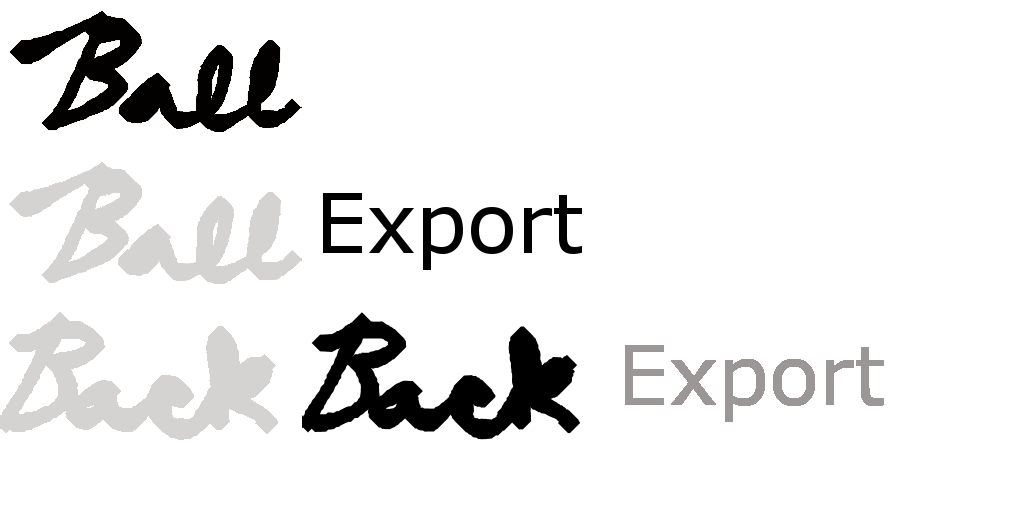
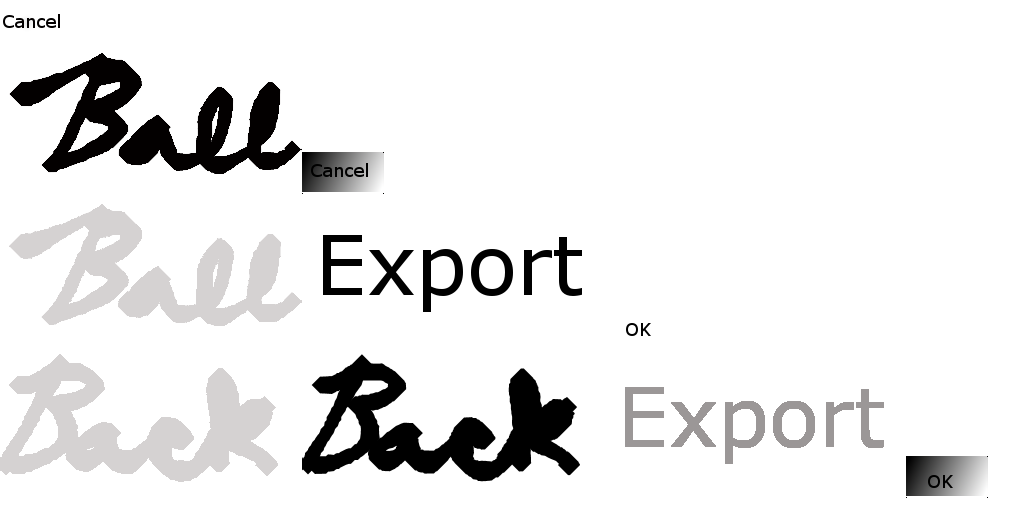
Added new Dialog box and buttons to place object

Changed region(s): [[0.0, 0.0312, 0.5625, 0.9375], [0.5938, 0.625, 0.875, 0.9062], [0.875, 0.875, 0.9688, 0.9688]]

diff --git a/LibGDX_Generate/core/src/org/TheGivingChild/Screens/ScreenEditor.java b/LibGDX_Generate/core/src/org/TheGivingChild/Screens/ScreenEditor.java
@@ -18,21 +18,22 @@ import com.badlogic.gdx.graphics.g2d.SpriteBatch;
 import com.badlogic.gdx.graphics.g2d.TextureAtlas;
 import com.badlogic.gdx.math.Rectangle;
 import com.badlogic.gdx.scenes.scene2d.Actor;
+import com.badlogic.gdx.scenes.scene2d.ui.Dialog;
 import com.badlogic.gdx.scenes.scene2d.ui.Skin;
 import com.badlogic.gdx.scenes.scene2d.ui.Table;
 import com.badlogic.gdx.scenes.scene2d.ui.TextButton;
 import com.badlogic.gdx.scenes.scene2d.ui.TextButton.TextButtonStyle;
+import com.badlogic.gdx.scenes.scene2d.ui.Window;
 import com.badlogic.gdx.scenes.scene2d.utils.ChangeListener;
+import com.badlogic.gdx.scenes.scene2d.utils.Drawable;
 import com.badlogic.gdx.utils.Align;
 import com.badlogic.gdx.utils.Array;
 
 class ScreenEditor extends ScreenAdapter{	
 	private String levelName = "Base";
 	private String packageName;
-	
 	//Style for the button
 	private TextButtonStyle textButtonStyleBack;
-
 	//Skins and the font
 	private BitmapFont font;
 	private Skin skinBack;
@@ -61,18 +62,21 @@ class ScreenEditor extends ScreenAdapter{
 	
 	//Stores the texture that is going to be used by the a EditorGameObject
 	private Texture objectImage;
-	
+	private Array<Texture> text;
 	//Stores all created EditorGameObjects that were spawned by the user
 	private Array<GameObject> gameObjects;
 	
 	private AssetManager manager;
 	
+	private Dialog window;
+	private Boolean objectSelectOpen = false;
+	
 	public ScreenEditor() {
 		//fill the placeholder from the ScreenManager
+		text = new Array<Texture>();
 		mainGame = ScreenAdapterManager.getInstance().game;
 		manager = mainGame.getAssetManager();
 		createEditorTable();
-		
 		//Instantiates the SpriteBatch, gridImage Texture and its Array
 		batch = new SpriteBatch();
 		gridImage = (Texture) mainGame.getAssetManager().get("editorAssets/Grid.png");		
@@ -88,7 +92,6 @@ class ScreenEditor extends ScreenAdapter{
 		
 		EditorTextInputListener listener = new EditorTextInputListener();
 		Gdx.input.getTextInput(listener, "Level Name", "", "Level Name");
-
 	}
 	//When hidden removes it's table
 	@Override
@@ -123,7 +126,7 @@ class ScreenEditor extends ScreenAdapter{
 		
 		for (int i=0; i<gridCol; i++) {
 			for (int j=0; j<gridRows; j++) {
-				batch.draw((Texture) manager.get("editorAssets/Grid.png"), grid[i][j].x, grid[i][j].y);
+				batch.draw(gridImage, grid[i][j].x, grid[i][j].y);
 			}
 		}
 		
@@ -159,88 +162,7 @@ class ScreenEditor extends ScreenAdapter{
 		editorTable.setVisible(false);
 	}
 	
-	private void createButtons() {
-		//Initializes all that is needed for the Back button and gets the textured needed
-		font = new BitmapFont();
-		skinBack = new Skin();
-		skinBack.addRegions((TextureAtlas) manager.get("Packs/ButtonsEditor.pack"));
-		textButtonStyleBack = new TextButtonStyle();
-		textButtonStyleBack.font = font; 
-		textButtonStyleBack.up = skinBack.getDrawable("Button_Editor_Back");
-		textButtonStyleBack.down = skinBack.getDrawable("ButtonPressed_Editor_Back");
-		TextButton backButton = new TextButton("", textButtonStyleBack);
-		
-		//Creates the listener for the Back button
-		backButton.addListener(new ChangeListener() { 			
-			@Override
-			public void changed(ChangeEvent event, Actor actor) {
-				//Calls the screen manager and has main be the shown screen if Back is hit
-				ScreenAdapterManager.getInstance().show(ScreenAdapterEnums.MAIN);
-			}
-		});
-		//Setting the size and adding the Back button to the table
-		editorTable.add(backButton).align(Align.bottom);
-		
-		//Uses some of the same variables, so gets images ready for the Ball button
-		TextButtonStyle styleBall = new TextButtonStyle();
-		styleBall.font = font;
-		styleBall.up = skinBack.getDrawable("Button_Editor_Ball");
-		styleBall.down = skinBack.getDrawable("ButtonPressed_Editor_Ball");
-		TextButton ballButton = new TextButton("", styleBall);
-		
-		//Ball button listener
-		ballButton.addListener(new ChangeListener() { 			
-			@Override
-			public void changed(ChangeEvent event, Actor actor) {
-				//Changes the image to be drawn and lets the user place one object
-				selectImage();
-				canSetObj = true;
-			}
-		});
-		//Adds the Ball button
-		editorTable.add(ballButton).align(Align.bottom);
-		
-		TextButtonStyle styleExport = new TextButtonStyle();
-		styleExport.font = font;
-		styleExport.up = skinBack.getDrawable("Button_Editor_Export");
-		styleExport.down = skinBack.getDrawable("Button_Editor_ExportPressed");
-		
-		TextButton exportButton = new TextButton("", styleExport);
-		
-		exportButton.addListener(new ChangeListener() {
-			@Override
-			public void changed(ChangeEvent event, Actor actor) {
-				WinEnum testWin1 = WinEnum.COLLISIONWITHOBJECTWIN;
-				Array<String> testWin1Values = new Array<String>();
-				testWin1Values.add("420");
-				testWin1Values.add("9001");
-				testWin1.setValues(testWin1Values);
-				Array<WinEnum> testWinArray = new Array<WinEnum>();
-				testWinArray.add(testWin1);
-				
-				LoseEnum testLose1 = LoseEnum.TIMEOUT;
-				Array<String>testLose1Values =  new Array<String>();
-				testLose1Values.add("42");
-				testLose1.setValues(testLose1Values);
-				Array<LoseEnum> testLoseArray = new Array<LoseEnum>();
-				testLoseArray.add(testLose1);
-				
-				LoseEnum testLose2 = LoseEnum.COLLISIONWITHOBJECTLOSE;
-				Array<String>testLose2Values =  new Array<String>();
-				testLose2Values.add("42");
-				testLose2Values.add("72");
-				testLose2.setValues(testLose2Values);
-				testLoseArray.add(testLose2);
-				
-				Level level = new Level(levelName, "packageTest", "test.png",testWinArray, testLoseArray, gameObjects);
-				mainGame.getXML_Writer().createLevel(level);
-				ScreenAdapterManager.getInstance().show(ScreenAdapterEnums.MAIN);				
-			}
-			
-		});
-		
-		editorTable.add(exportButton).align(Align.bottom);
-	}
+	
 	
 	//Fills the grid according to the gridImage size relative to the screen size
 	private void fillGrid() {
@@ -257,7 +179,6 @@ class ScreenEditor extends ScreenAdapter{
 				grid[i][j] = new Rectangle(i*gridSize, Gdx.graphics.getHeight() - j*gridSize, gridSize, gridSize);
 			}
 		}
-
 	}
 	
 	//Called when there is a touch on the screen
@@ -340,5 +261,122 @@ class ScreenEditor extends ScreenAdapter{
 			
 		}
 		
+	}
+	
+	private void createButtons() {
+		//Initializes all that is needed for the Back button and gets the textured needed
+		font = new BitmapFont();
+		skinBack = new Skin();
+		skinBack.addRegions((TextureAtlas) manager.get("Packs/ButtonsEditor.pack"));
+		textButtonStyleBack = new TextButtonStyle();
+		textButtonStyleBack.font = font; 
+		textButtonStyleBack.up = skinBack.getDrawable("Button_Editor_Back");
+		textButtonStyleBack.down = skinBack.getDrawable("ButtonPressed_Editor_Back");
+		TextButton backButton = new TextButton("", textButtonStyleBack);
+		
+		//Creates the listener for the Back button
+		backButton.addListener(new ChangeListener() { 			
+			@Override
+			public void changed(ChangeEvent event, Actor actor) {
+				//Calls the screen manager and has main be the shown screen if Back is hit
+				ScreenAdapterManager.getInstance().show(ScreenAdapterEnums.MAIN);
+			}
+		});
+		//Setting the size and adding the Back button to the table
+		editorTable.add(backButton).align(Align.bottom);
+		
+		//Uses some of the same variables, so gets images ready for the Ball button
+		TextButtonStyle styleBall = new TextButtonStyle();
+		styleBall.font = font;
+		styleBall.up = skinBack.getDrawable("Button_Editor_Ball");
+		styleBall.down = skinBack.getDrawable("ButtonPressed_Editor_Ball");
+		TextButton ballButton = new TextButton("", styleBall);
+		
+		//Ball button listener
+		ballButton.addListener(new ChangeListener() { 			
+			@Override
+			public void changed(ChangeEvent event, Actor actor) {
+				//Changes the image to be drawn and lets the user place one object
+				selectImage();
+				window.setVisible(true);
+			}
+		});
+		//Adds the Ball button
+		editorTable.add(ballButton).align(Align.bottom);
+		
+		TextButtonStyle styleExport = new TextButtonStyle();
+		styleExport.font = font;
+		styleExport.up = skinBack.getDrawable("Button_Editor_Export");
+		styleExport.down = skinBack.getDrawable("Button_Editor_ExportPressed");
+		
+		TextButton exportButton = new TextButton("", styleExport);
+		
+		exportButton.addListener(new ChangeListener() {
+			@Override
+			public void changed(ChangeEvent event, Actor actor) {
+				WinEnum testWin1 = WinEnum.COLLISIONWITHOBJECTWIN;
+				Array<String> testWin1Values = new Array<String>();
+				testWin1Values.add("420");
+				testWin1Values.add("9001");
+				testWin1.setValues(testWin1Values);
+				Array<WinEnum> testWinArray = new Array<WinEnum>();
+				testWinArray.add(testWin1);
+				
+				LoseEnum testLose1 = LoseEnum.TIMEOUT;
+				Array<String>testLose1Values =  new Array<String>();
+				testLose1Values.add("42");
+				testLose1.setValues(testLose1Values);
+				Array<LoseEnum> testLoseArray = new Array<LoseEnum>();
+				testLoseArray.add(testLose1);
+				
+				LoseEnum testLose2 = LoseEnum.COLLISIONWITHOBJECTLOSE;
+				Array<String>testLose2Values =  new Array<String>();
+				testLose2Values.add("42");
+				testLose2Values.add("72");
+				testLose2.setValues(testLose2Values);
+				testLoseArray.add(testLose2);
+				
+				Level level = new Level(levelName, "packageTest", "test.png",testWinArray, testLoseArray, gameObjects);
+				mainGame.getXML_Writer().createLevel(level);
+				ScreenAdapterManager.getInstance().show(ScreenAdapterEnums.MAIN);				
+			}
+			
+		});
+		
+		editorTable.add(exportButton).align(Align.bottom);
+		Window.WindowStyle winStyle = new Window.WindowStyle();
+		winStyle.titleFont = font;
+		window = new Dialog("Onject Select" , winStyle);
+		
+		TextButtonStyle okStyle = new TextButtonStyle();
+		okStyle.font = font;
+		okStyle.up = skinBack.getDrawable("Button_Editor_Ok");
+		okStyle.down = skinBack.getDrawable("Button_Editor_OkPressed");
+		TextButton okButton = new TextButton("", okStyle);
+		
+		TextButtonStyle cancelStyle = new TextButtonStyle();
+		cancelStyle.font = font;
+		cancelStyle.up = skinBack.getDrawable("Button_Editor_Cancel");
+		cancelStyle.down = skinBack.getDrawable("Button_Editor_CancelPressed");
+		TextButton cancelButton = new TextButton("", cancelStyle);
+		window.add(okButton).align(Align.bottom);
+		window.add(cancelButton).align(Align.bottom);
+		
+		okButton.addListener(new ChangeListener() {
+			@Override
+			public void changed(ChangeEvent event, Actor actor) {
+				canSetObj = true;
+				window.setVisible(false);
+			}
+			
+		});
+		cancelButton.addListener(new ChangeListener() {
+			@Override
+			public void changed(ChangeEvent event, Actor actor) {
+				window.setVisible(false);
+			}
+		});
+		window.show(mainGame.getStage());
+		window.setVisible(false);
 	}
 }
